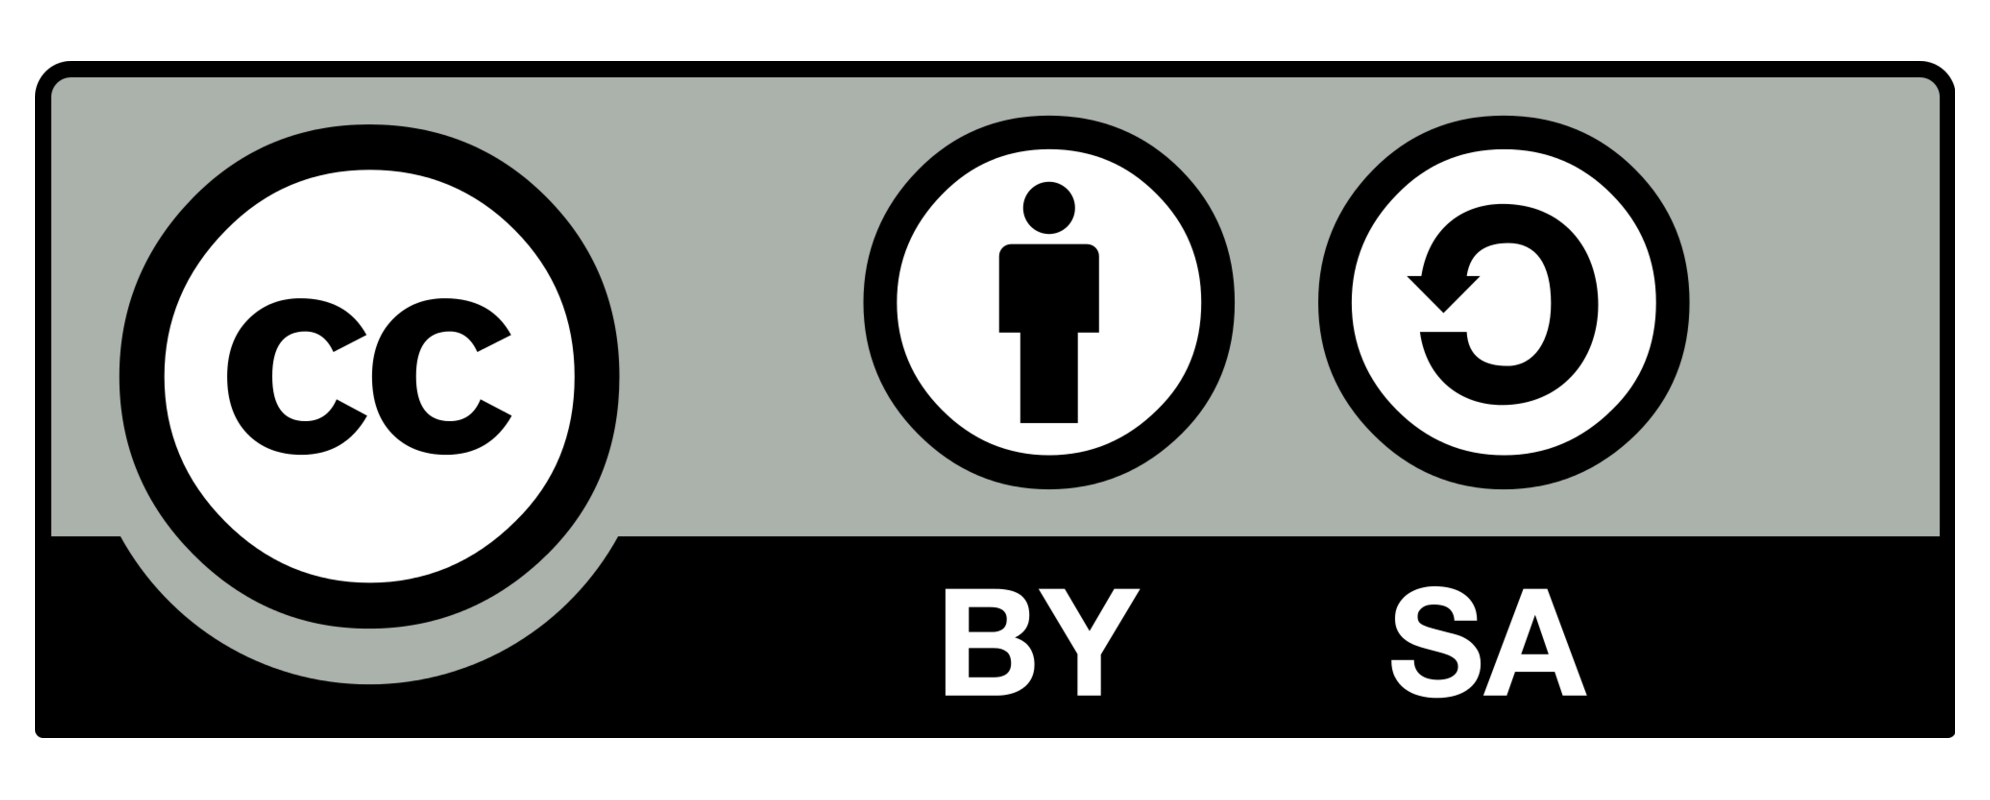
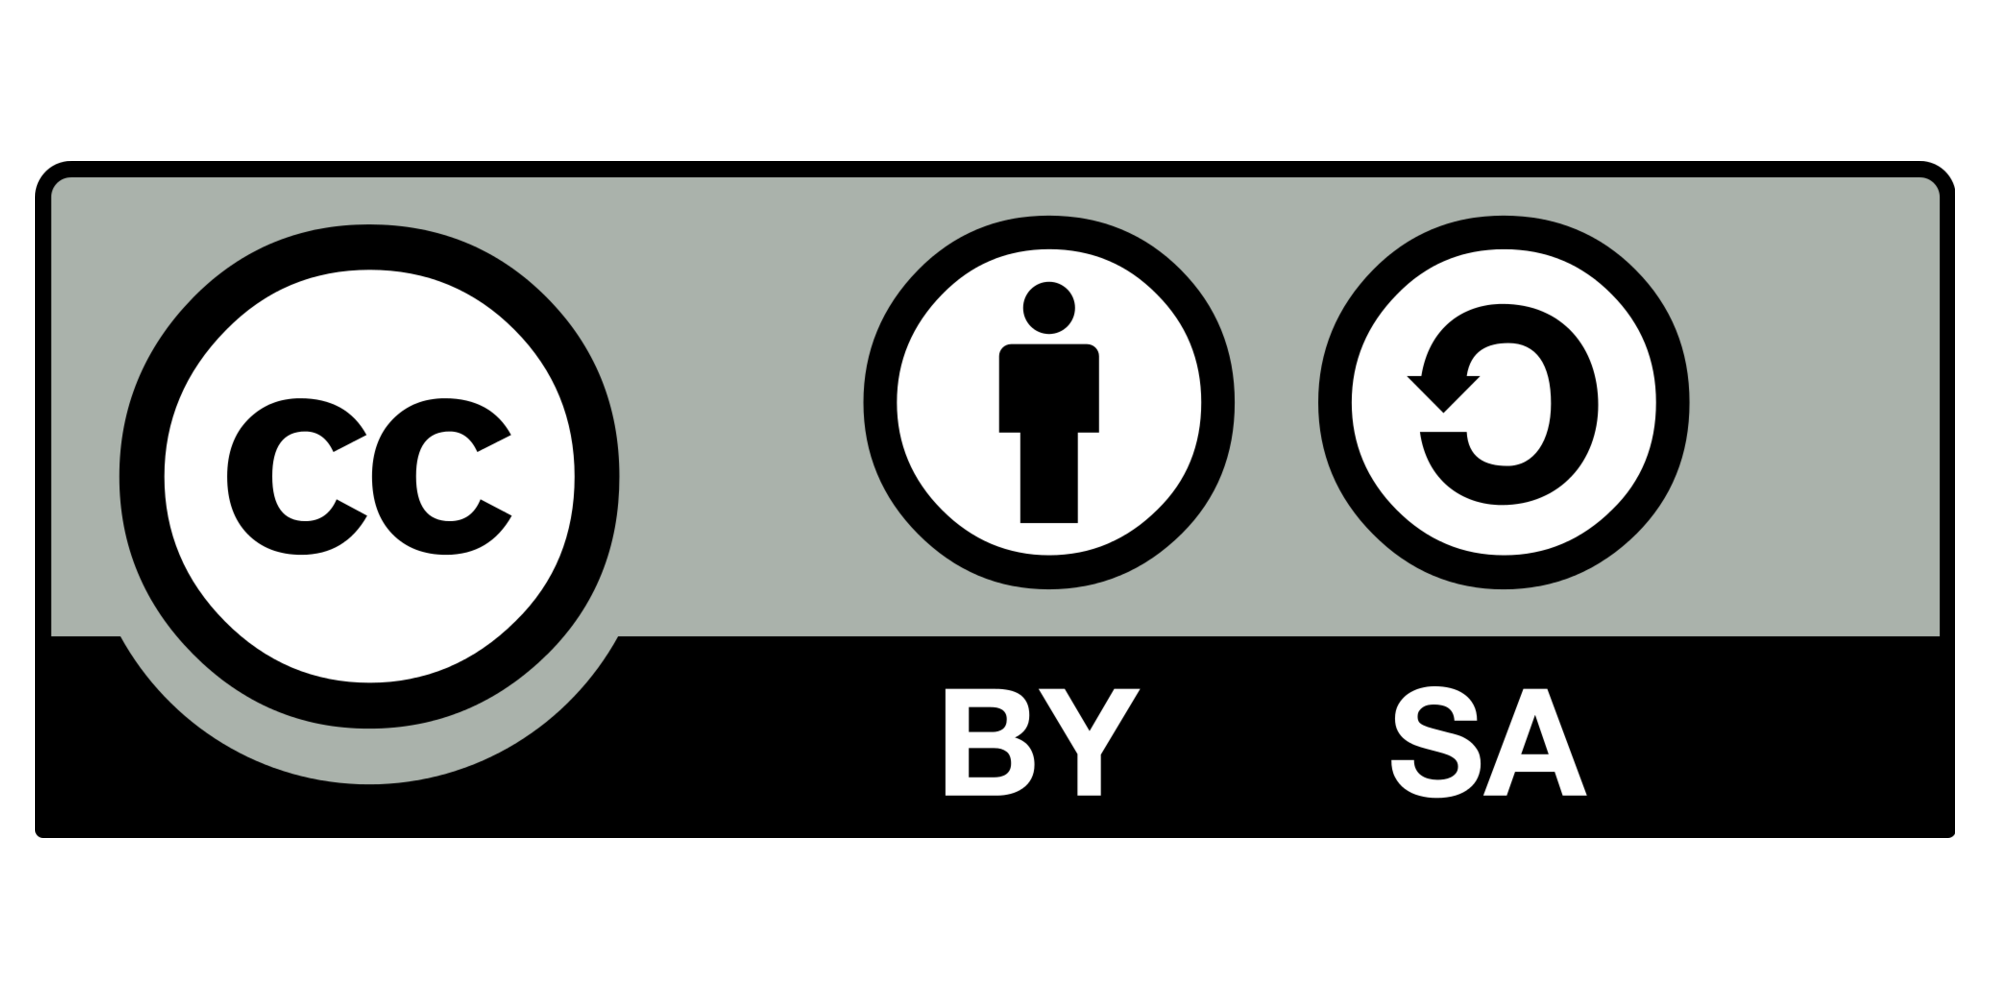
Chnaged image grid size

diff --git a/components/PreviewCanvas.vue b/components/PreviewCanvas.vue
@@ -17,7 +17,7 @@
     // Static Variables (let, const)
     const comicStore = useComicStore();
     const creditSize = { w: 400, h: 50 };
-    const ccSize = { w: 80, h: 32 };
+    const ccSize = { w: 80, h: 40 };
     const gap = 10;
     const promiseArray = [];
     // Reactive Variables
